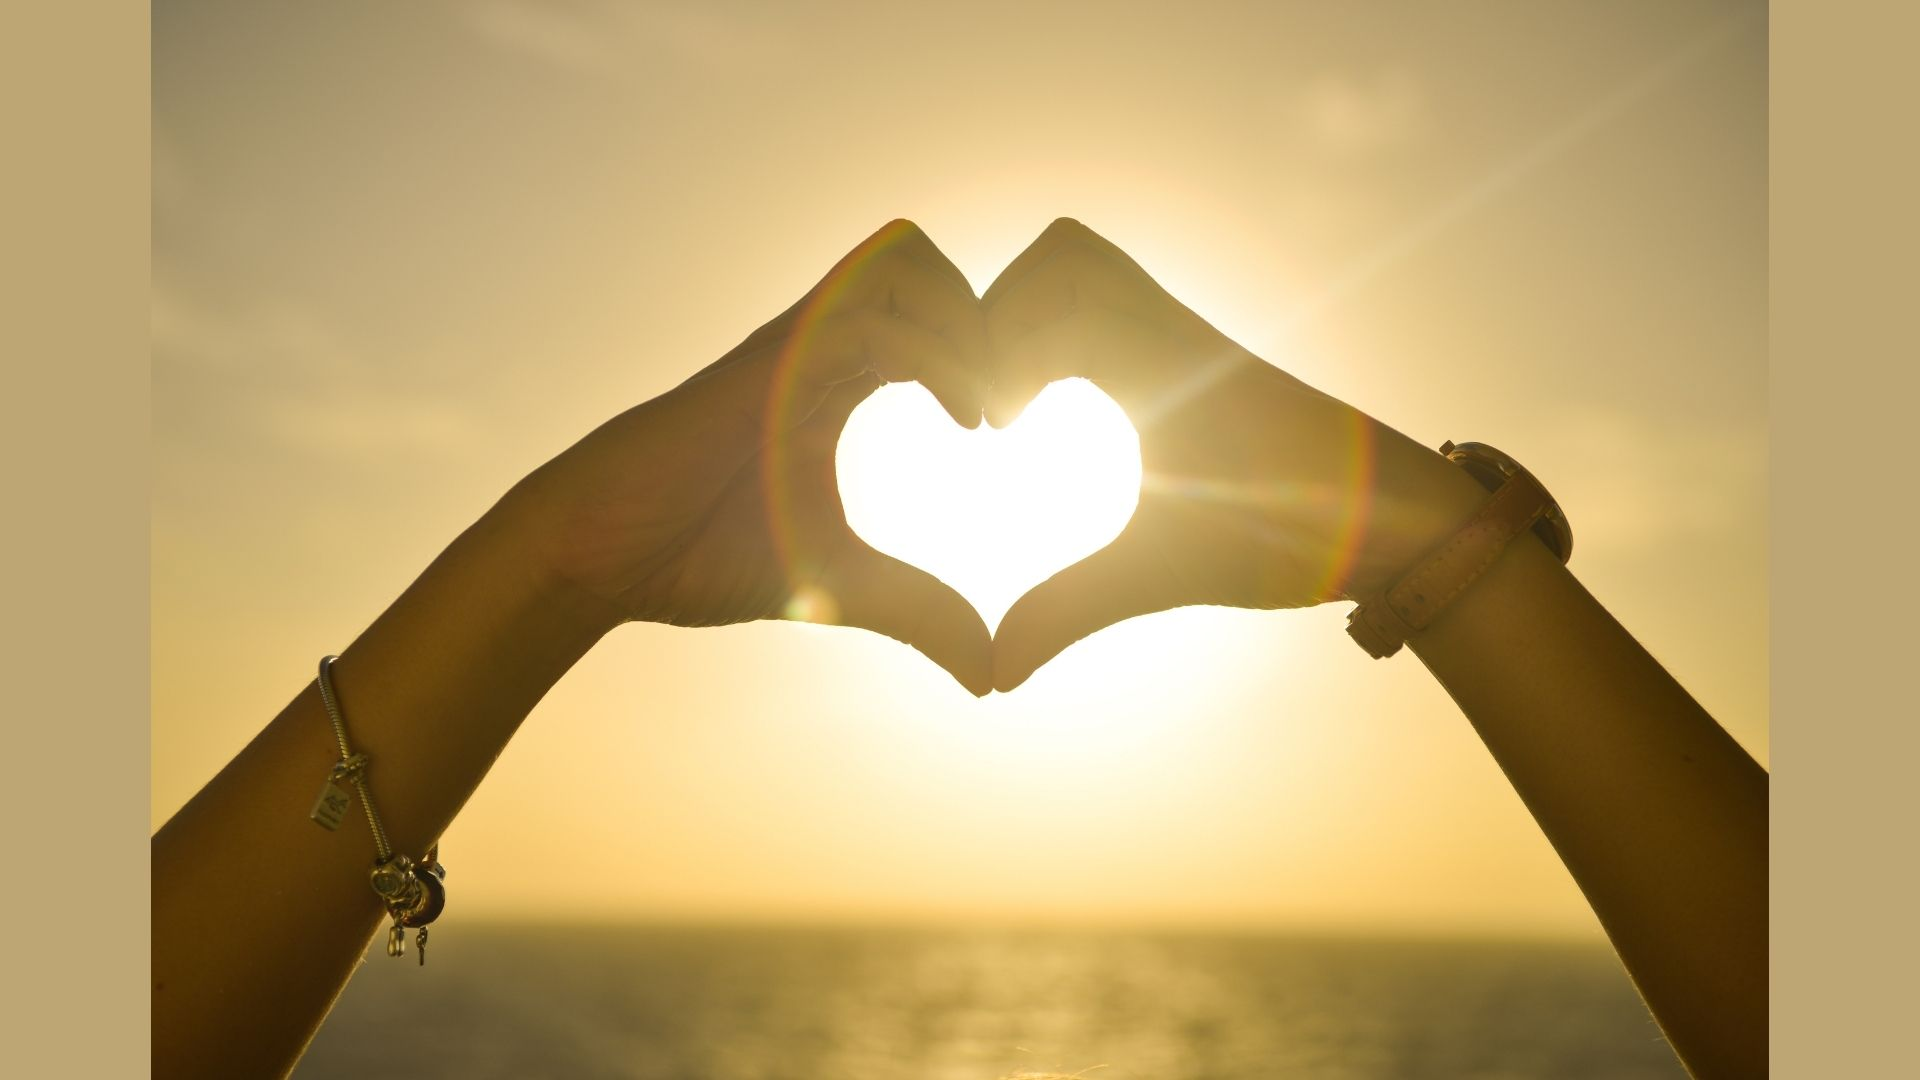
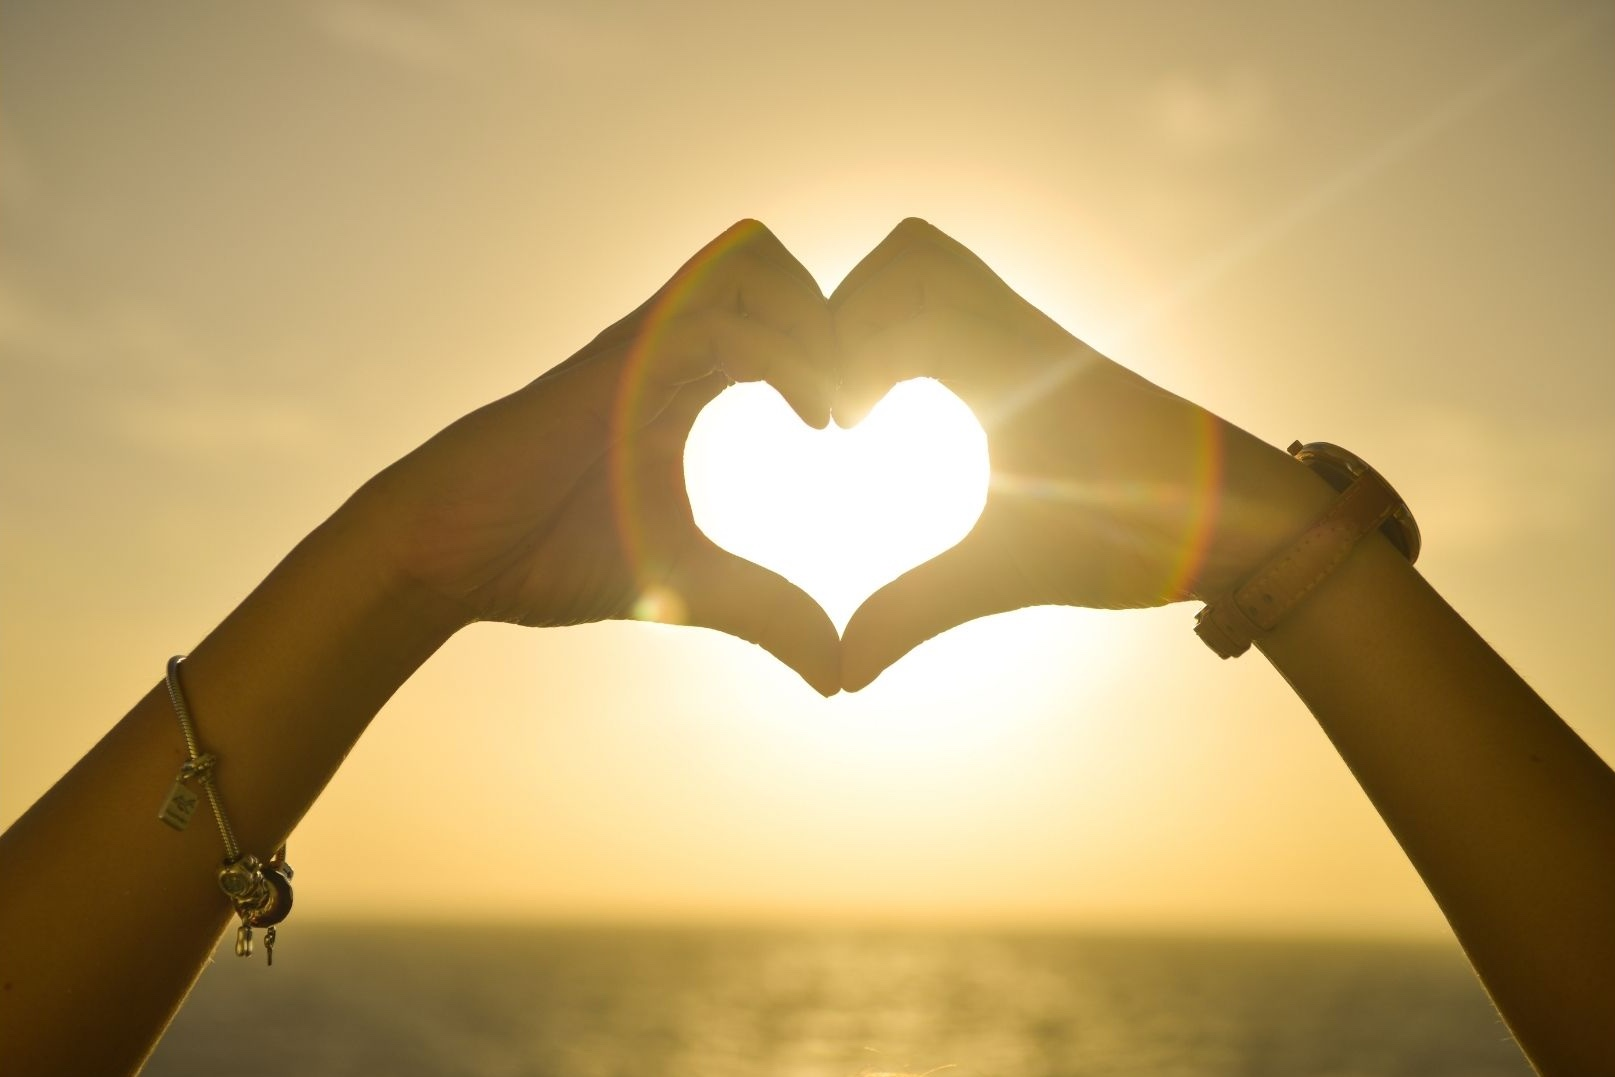
replace some of the test images with better quality images

diff --git a/assets/css/style.css b/assets/css/style.css
@@ -148,18 +148,20 @@ p a:hover {
 }
 
 /*------------ GALLERY PAGE ------------*/
-/*redit: code for image gallery taken from https://codepen.io/mugas/pen/gOaJeMm and edited to fit project needs*/
-
+#gallerynavbar {
+    margin-bottom: 5vh;
+}
+/*credit: code for image gallery taken from https://codepen.io/mugas/pen/gOaJeMm and edited to fit project needs*/
+/* Grid Format */
+/*Formats the text inside the image*/
 .container > div {
     display: flex;
     justify-content: center;
     align-items: center;
-    font-size: 2em;
-    color: #20263f;
   }
   .container > div > img {
     width: 100%;
-    height: 100%;
+    height: auto;
     object-fit: cover;
   }
   .container {
@@ -181,7 +183,9 @@ p a:hover {
   .container > div:hover img {
     opacity: 0.7;
   }
+  }
 
+/* credit: code for modal styling taken from http://www-db.deis.unibo.it/courses/TW/DOCS/w3schools/howto/howto_css_modal_images.asp.html and edited to fit project needs with the support of question asked in Stackoverflow: https://stackoverflow.com/questions/68310635/modal-image-issue-in-javascript/68311080#68311080 */
 /* The Modal (background) */
 .modal {
     display: none; /* Hidden by default */

diff --git a/gallery.html b/gallery.html
@@ -14,7 +14,7 @@
         <header>
 
             <!--credit: code for burger menu taken from https://www.w3schools.com/bootstrap4/tryit.asp?filename=trybs_navbar_collapse and edited slightly to fit project needs -->
-            <nav class="navbar navbar-expand-md">
+            <nav class="navbar navbar-expand-md" id="gallerynavbar">
 
                 <!-- Toggler/collapsibe Button -->
                 <button class="navbar-toggler ml-auto" type="button" data-toggle="collapse" data-target="#collapsibleNavbar" aria-label="menu">
